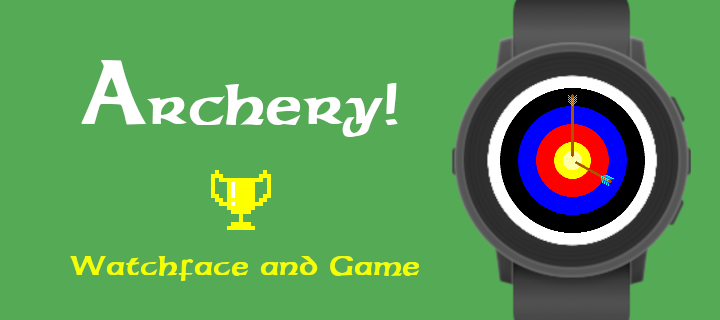
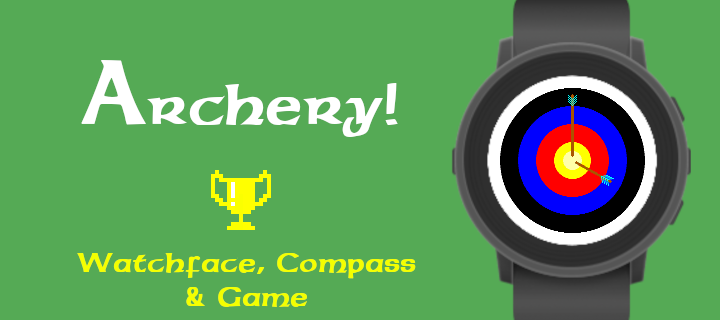
Tweak demo behaviour, new appstore resources

Changed region(s): [[0.0917, 0.7812, 0.5806, 0.9688]]

diff --git a/src/c/Archery.c b/src/c/Archery.c
@@ -778,22 +778,22 @@ static void arrow_shoot(ArrowContext* arrow, int32_t angle, int32_t length, int1
 static void demo_override_arrow_hits(ArrowContext* arrow) {
     static int counter = 2;
     if (counter > 0) {
-        if (arrow - s_arrows == 0) {
+        if (is_hour_hand(arrow)) {
             arrow->color = GColorCyan;
         } else {
             arrow->color = GColorMagenta;
         }
     } else if (counter > -2) {
-        if (arrow - s_arrows == 0) {
+        if (is_hour_hand(arrow)) {
             arrow->color = GColorRed;
-        } else if (arrow - s_arrows == 1){
+        } else{
             arrow->color = GColorGreen;
         }
     } else {
-        if (arrow - s_arrows == 0) {
+        if (is_hour_hand(arrow)) {
             arrow->distance = 5;
             arrow->color = GColorGreen;
-        } else if (arrow - s_arrows == 1){
+        } else{
             arrow->distance = 13;// gabbro 55;
             arrow->color = GColorYellow;
         }
@@ -910,6 +910,7 @@ static void arrow_determine_accuracy(ArrowContext *arrow) {
         max_distance = (MIN(PBL_DISPLAY_WIDTH, PBL_DISPLAY_HEIGHT) / 2) - arrow->length;
     }
 
+#if !DEMO
     // Normally, you get a fixed small chance to hit the centre.
     // Chosen to get both arrows in centre on average weekly when shooting once per minute.
     bool hit_centre = (rand() % 100) == 0;
@@ -946,17 +947,20 @@ static void arrow_determine_accuracy(ArrowContext *arrow) {
         max_distance = clue_distance;
     }
 
-#if DEMO
-    if (!is_hour_hand(arrow) && (arrow->shot_reason != SHOT_REASON_COMPASS)) {
-        max_distance = (MIN(PBL_DISPLAY_WIDTH, PBL_DISPLAY_HEIGHT) / 2) - (arrow->length/2);
+#else // DEMO
+    if (!is_hour_hand(arrow)){
+        max_distance = (MIN(PBL_DISPLAY_WIDTH, PBL_DISPLAY_HEIGHT) / 2) - arrow->length;
     }
+    int32_t min_distance = 10;
 #endif // DEMO
 
     arrow->distance = min_distance + (rand() % (max_distance - min_distance));
     LOG("%d ~ %d = %d", min_distance, max_distance, arrow->distance);
 
 #if DEMO
-    demo_override_arrow_hits(arrow);
+    if (arrow->shot_reason != SHOT_REASON_COMPASS) {
+        demo_override_arrow_hits(arrow);
+    }
 #endif // DEMO
 }
 
